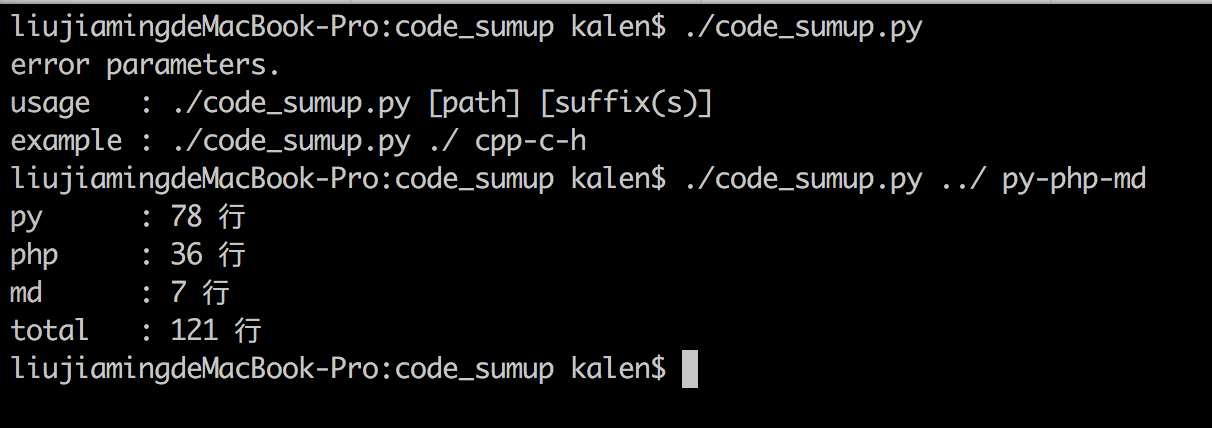
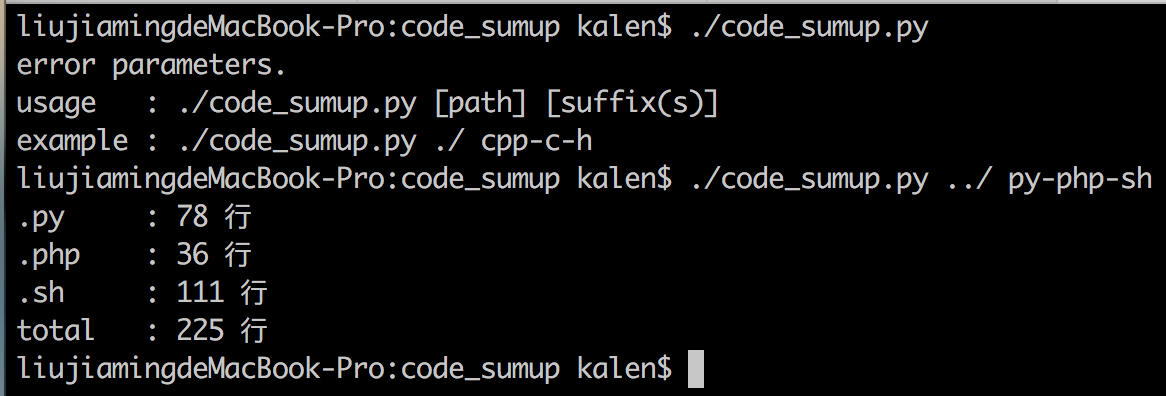
modified:   code_sumup/code_sumup.py

Changed region(s): [[0.0, 0.0, 0.988, 1.0]]

diff --git a/code_sumup/code_sumup.py b/code_sumup/code_sumup.py
@@ -3,7 +3,7 @@
 """ 代码行数统计 """
 
 import sys
-import os  
+import os
 
 def help():
     print("usage\t: ./code_sumup.py [path] [suffix(s)]")
@@ -28,12 +28,12 @@ if __name__ == '__main__':
 
     # 递归遍历
     def count(path):
-        files =  os.listdir(path)  
-        for filename in files:  
-            filepath = os.path.join(path, filename)  
-            if os.path.isdir(filepath):  
-                count(filepath)  
-            else:  
+        files =  os.listdir(path)
+        for filename in files:
+            filepath = os.path.join(path, filename)
+            if os.path.isdir(filepath):
+                count(filepath)
+            else:
                 ext = os.path.splitext(filepath)[1][1:]
                 if ext in types:
                     line_num = line_count(filepath)
@@ -43,6 +43,6 @@ if __name__ == '__main__':
     total = 0
     for t in types:
         total = total + results[t]
-        print t, "\t:", results[t], "行"
+        print "."+t, "\t:", results[t], "行"
 
     print "total\t:", total, "行"
